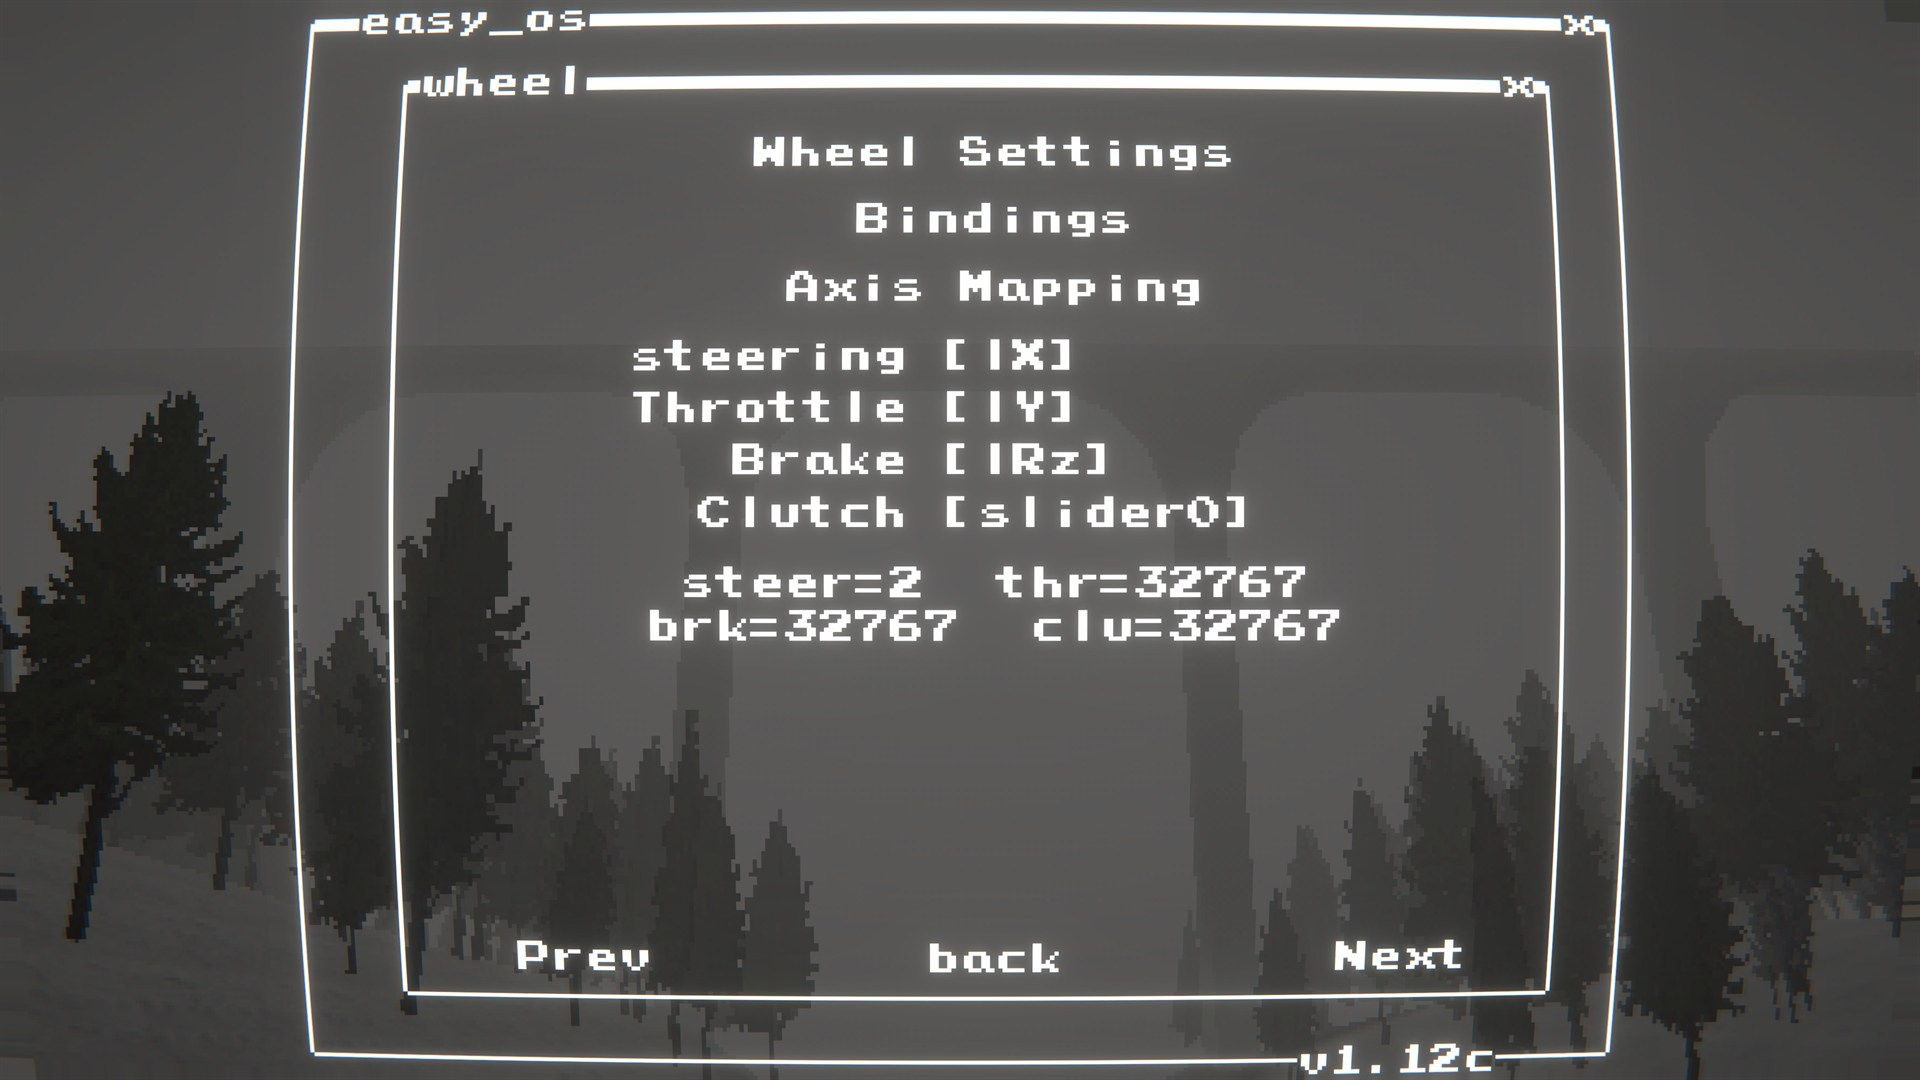
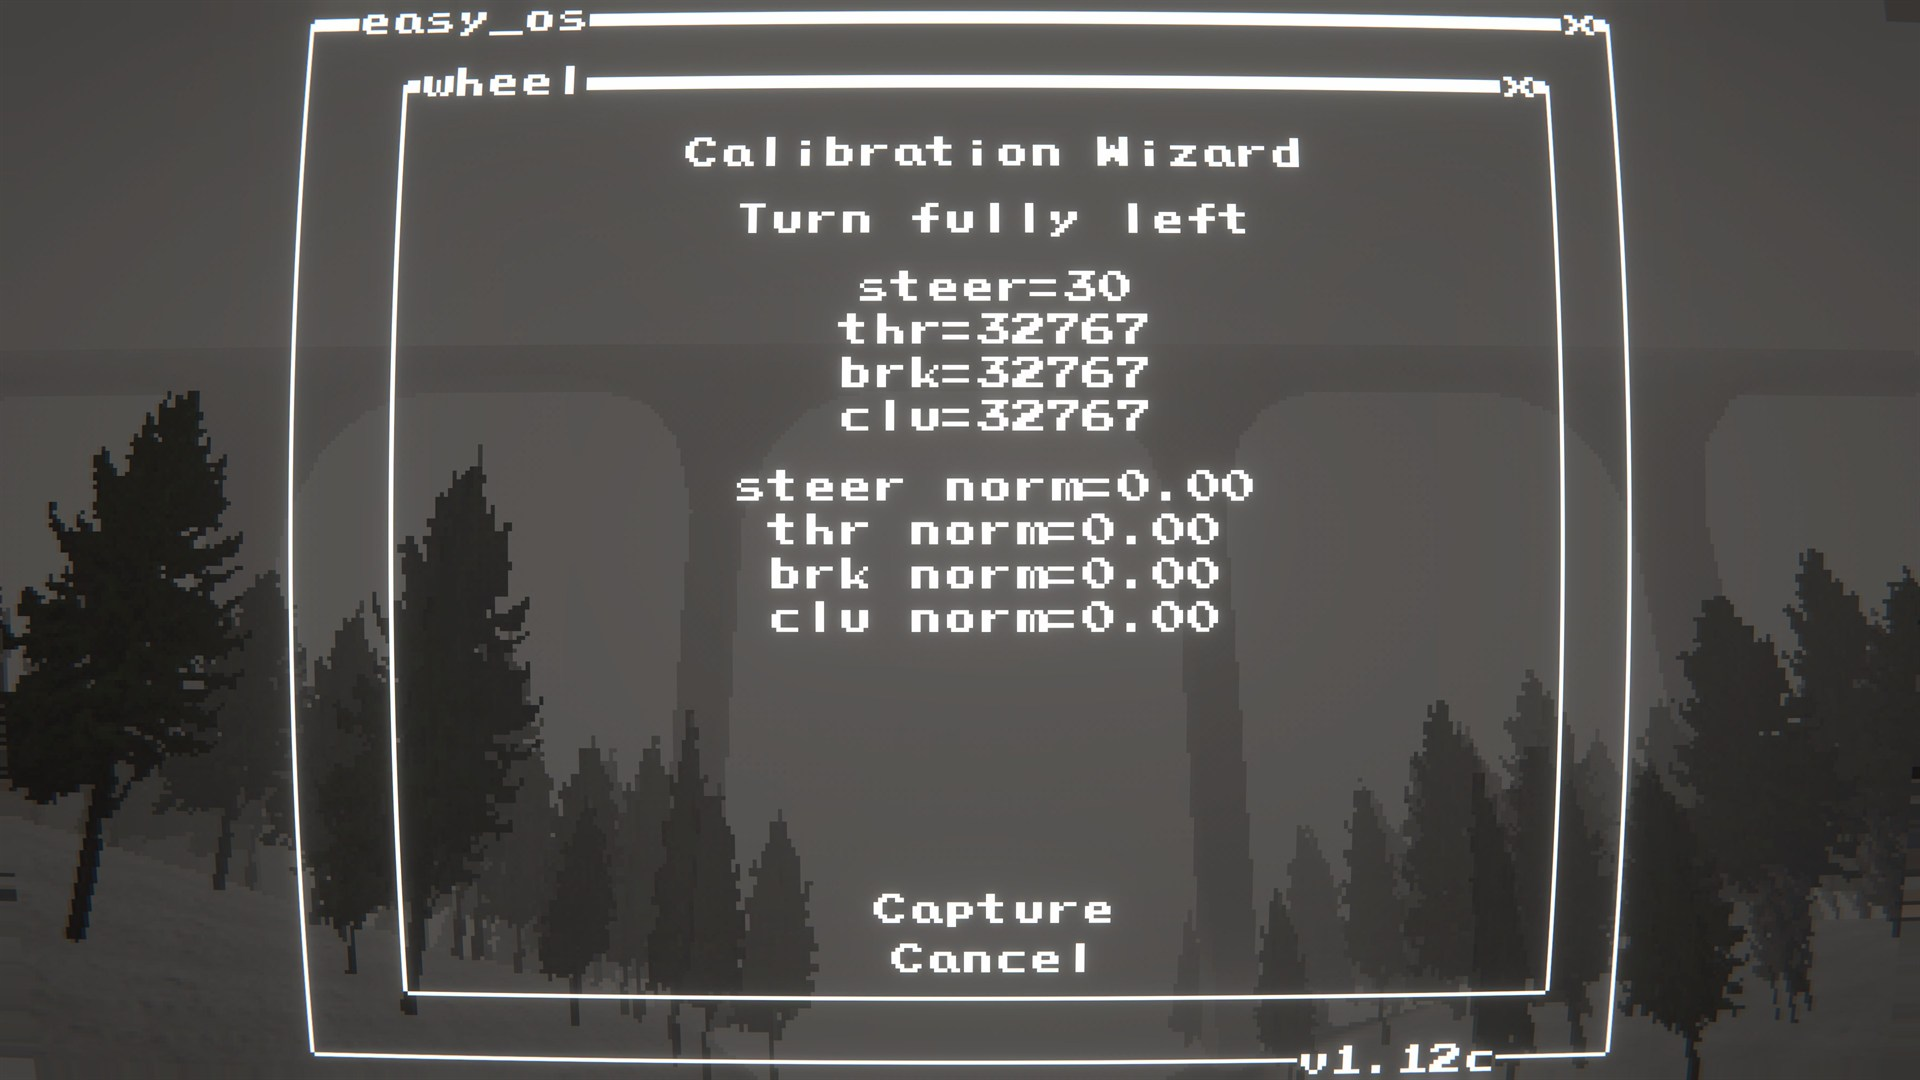
Add additional screenshots

diff --git a/README.md b/README.md
@@ -67,7 +67,7 @@ This mod uses Logitech's Steering Wheel SDK wrapper for Force Feedback (FFB).
   </tr>
   <tr>
     <td width="50%"><img src="assets/screenshots/9.jpg" alt="Screenshot 9" width="100%"></td>
-    <td width="50%"></td>
+    <td width="50%"><img src="assets/screenshots/10.jpg" alt="Screenshot 10" width="100%"></td>
   </tr>
 </table>
 
